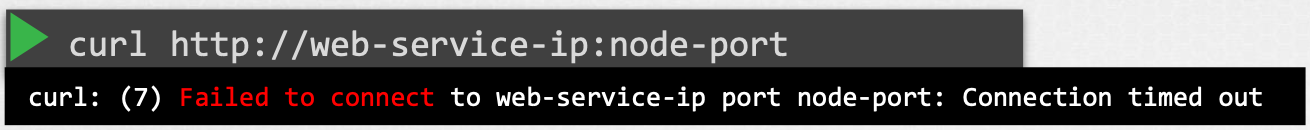
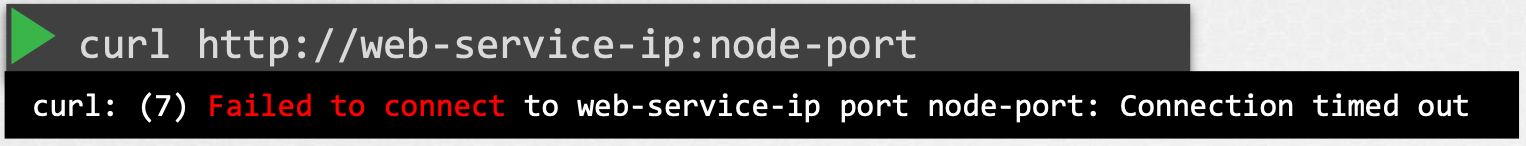
이미지 중앙 정렬 추가

Changed region(s): [[0.0, 0.0, 1.0, 0.5231], [0.0, 0.6462, 0.9771, 0.8615], [0.0, 0.9231, 1.0, 0.9846]]

diff --git a/_sass/pages/_post.scss b/_sass/pages/_post.scss
@@ -484,6 +484,7 @@ header {
 .content > p > img {
   @include bp.lte(bp.get(md)) {
     max-width: calc(100% + 1rem);
+    justify-content: center;
   }
 }
 

diff --git a/_posts/2019-08-11-application-failure.md b/_posts/2019-08-11-application-failure.md
@@ -1,14 +1,17 @@
 ---
 title: Application Failure
-author: cotes
+description: >-
+  Certified Kubernetes Administrator (CKA) with Practice Tests 강의<br>
+  Troubleshooting
+author: JinHyouk Park
 date: 2019-08-11 00:34:00 +0800
-categories: [Blogging, Tutorial]
+categories: [DevOps, Kubernetes]
 tags: [favicon]
 ---
 
 ## 애플리케이션 오류 접근 방법
 
-전체 구조를 생각하여 어떻게 접근할 것인지 생각
+전체 구조를 생각하여 어떻게 접근할 것인지 생각하고 문제의 원인을 찾을 때 까지 모든 오브젝트와 링크를 확인하자.
 
 ## 예시
 
@@ -18,10 +21,16 @@ tags: [favicon]
 
 사용자가 애플리케이션에 접근하는데 문제가 발생하였을때, 아래와 같이 사용자단에서부터 확인해보자.
 
-먼저 curl 명령어를 사용해서 WEB-Service에 접근가능한지 확인한다.
+먼저 curl 명령어를 사용해서 WEB-Service(service)에 접근가능한지 확인한다.
 
-![전체 구조](../assets/img/posts/application-failure/2.png){: width="80%" height="80%"}{: .center}
+![전체 구조](../assets/img/posts/application-failure/2.png){: width="100%" height="100%"}{: .center}
 
-Connection time out이 발생했으니 WEB-Service와 WEB간의 연결이 잘 되어있는지 확인한다.
+**Connection time out**이 발생했으니 WEB-Service(service)와 WEB(pod)간의 문제가 있는지 확인한다.
 
-![전체 구조](../assets/img/posts/application-failure/3.png){: width="90%" height="90%"}{: .center}
+![전체 구조](../assets/img/posts/application-failure/3.png){: width="100%" height="100%"}{: .center}
+
+문제가 없으니 이제는 WEB(pod)이 정상적으로 작동하고 있는지 확인한다.
+
+![전체 구조](../assets/img/posts/application-failure/4.png)
+
+위와 같은 방법으로 DB도 확인해본다.
